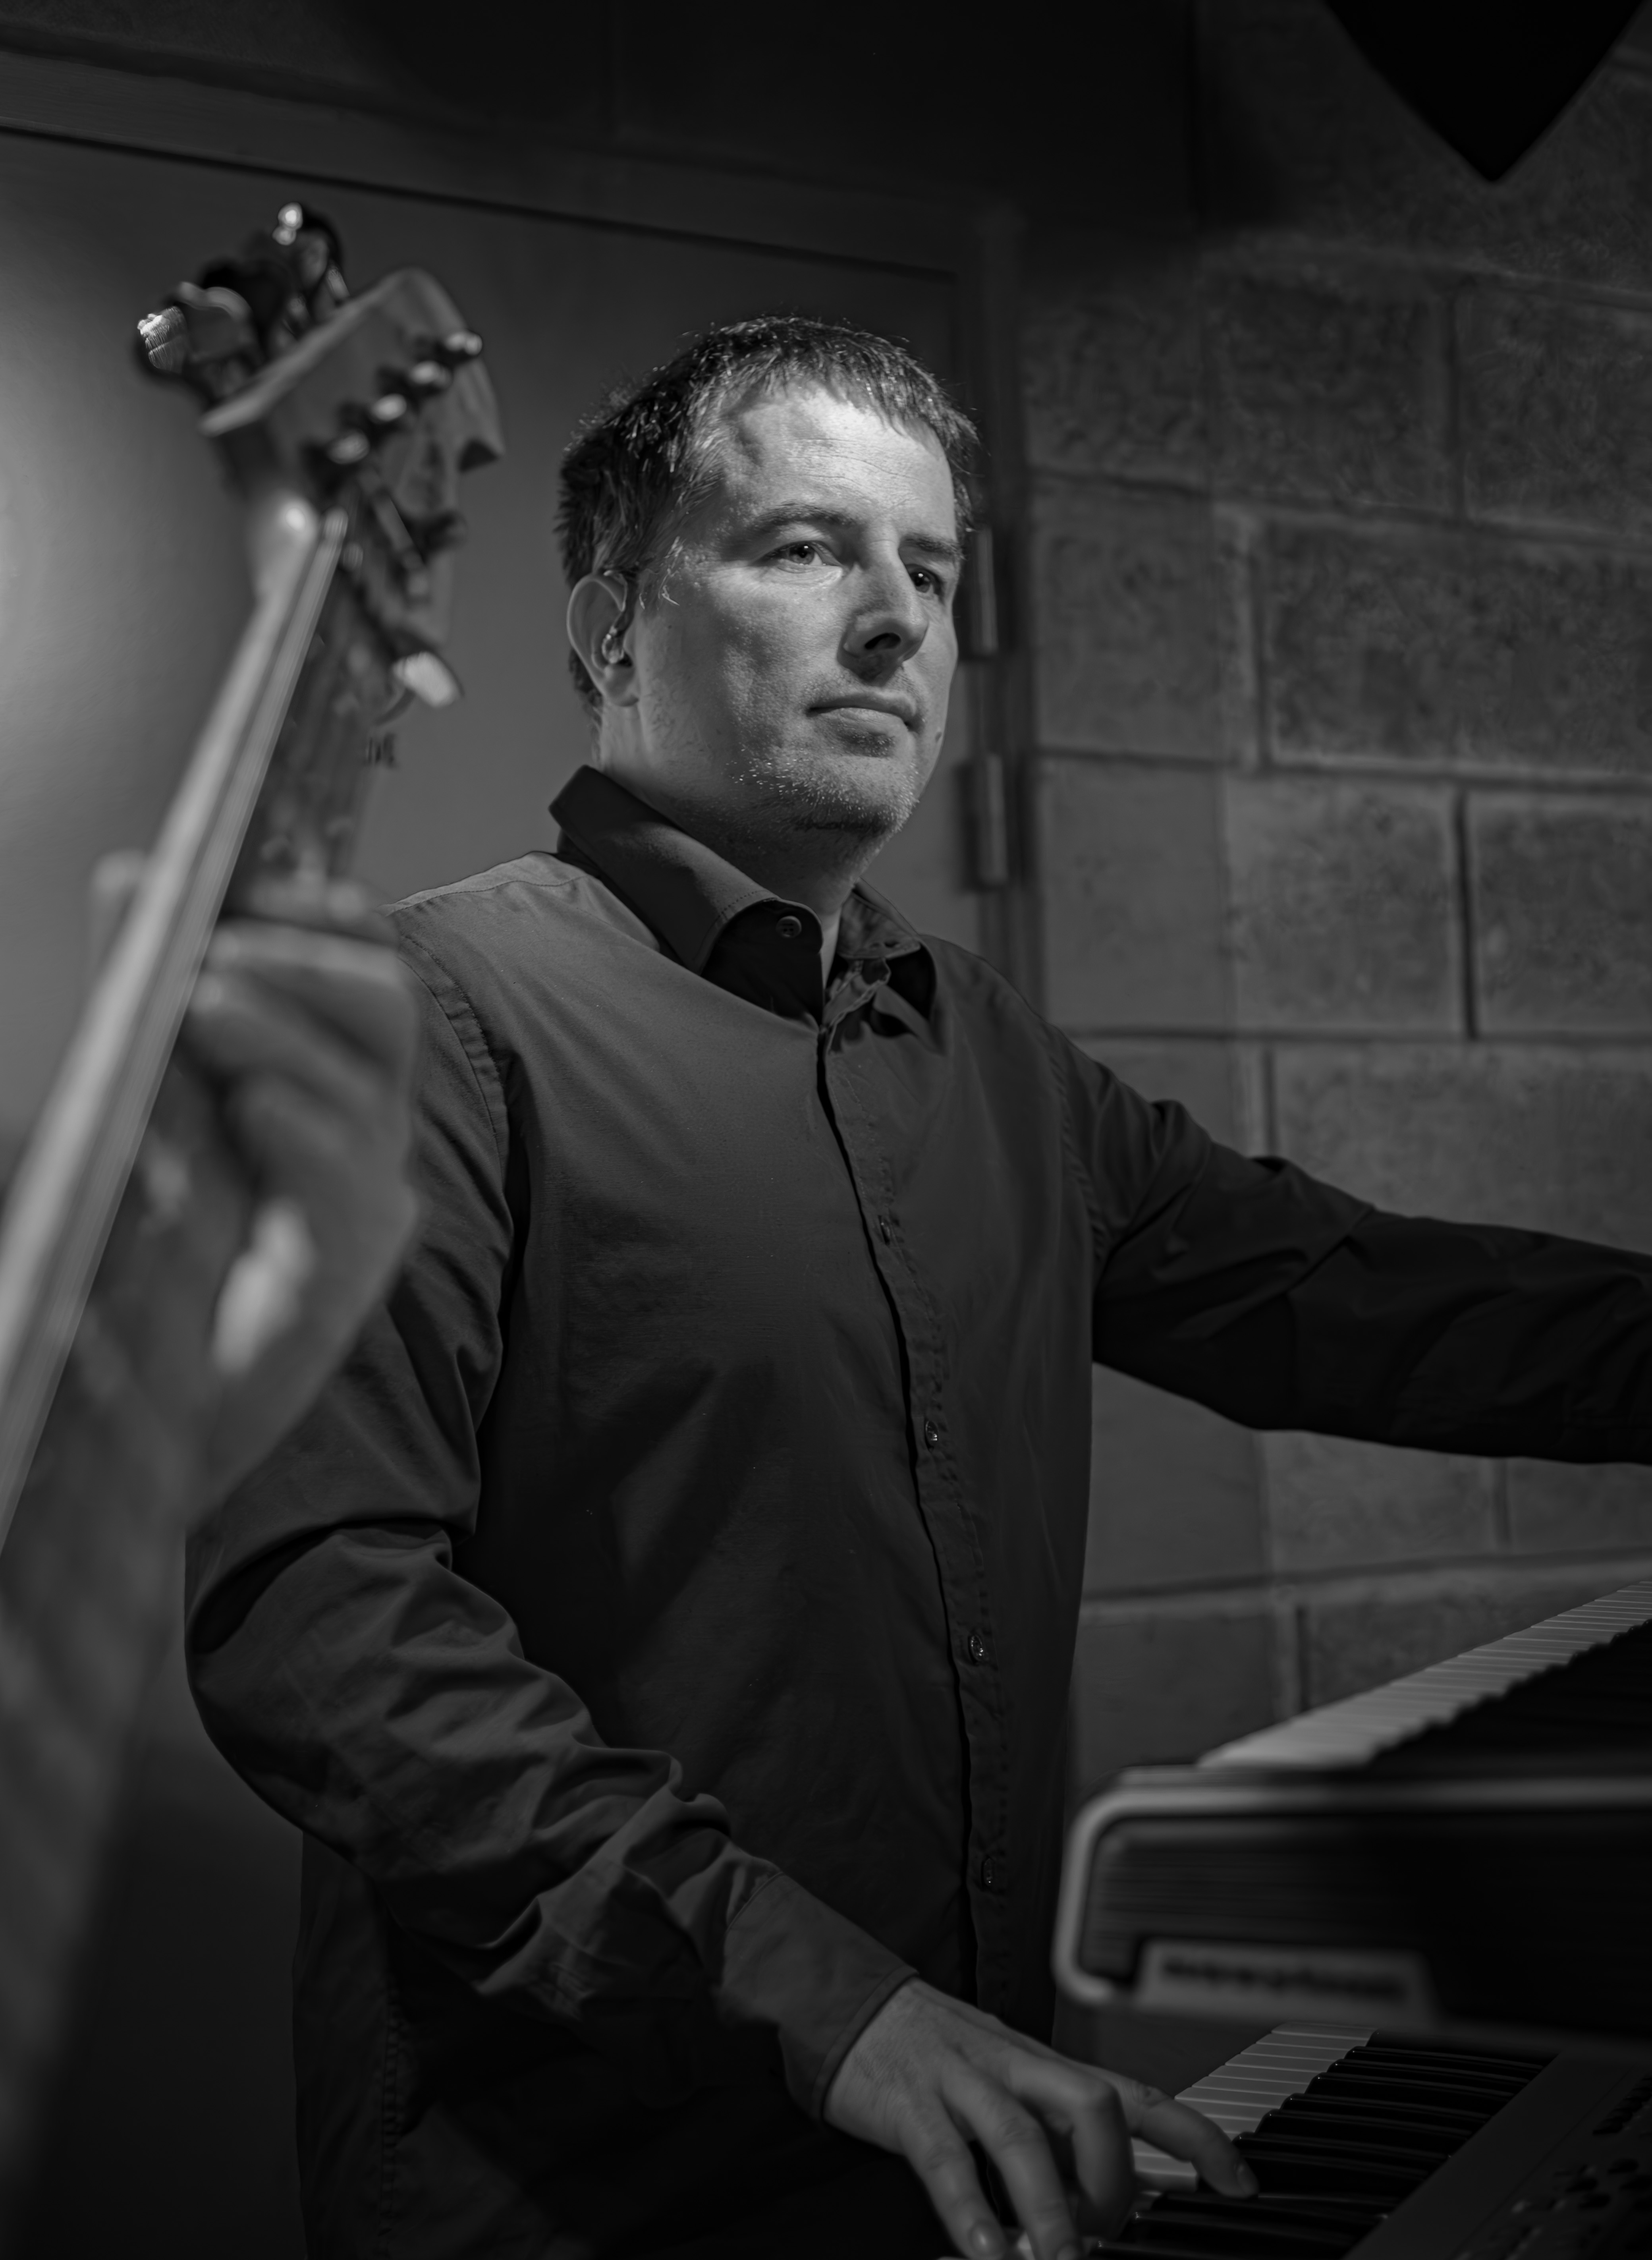
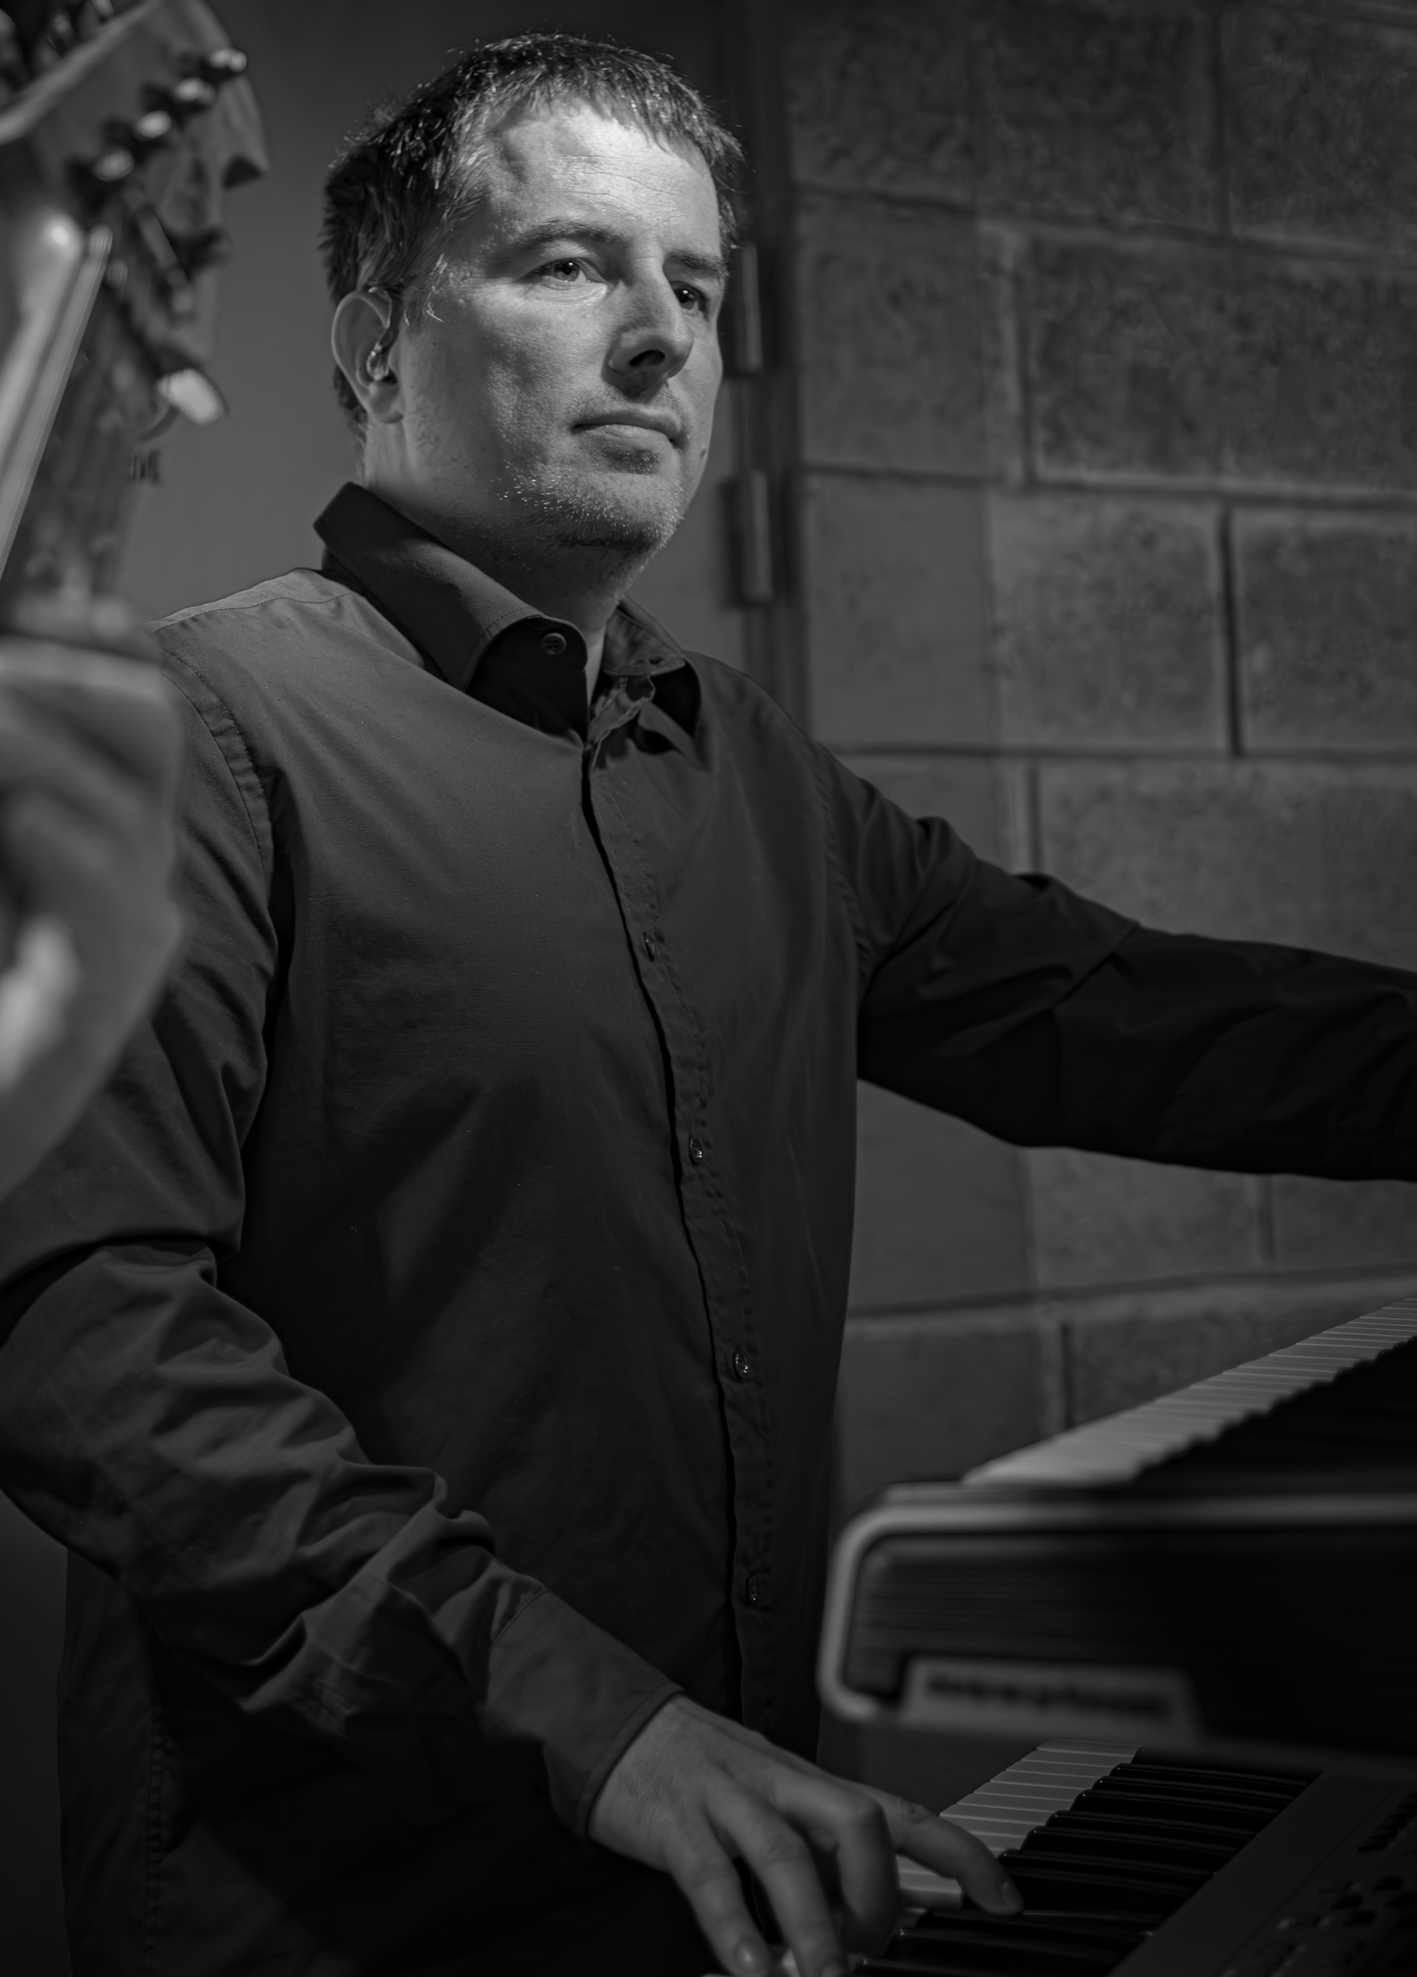
Fix group page

diff --git a/new/styles/main_styles.css b/new/styles/main_styles.css
@@ -632,12 +632,12 @@
 
 .artist
 {
-	padding-bottom: 106px;
+	padding-bottom: 64px;
 	background: #000000;
 }
 .artist_content
 {
-	padding-top: 191px;
+	padding-top: 20px;
 }
 .artist_image
 {
@@ -647,14 +647,12 @@
 }
 .artist_image img
 {
-	max-width: 100%;
+	/*max-width: 100%;*/
 	border-right: 8px solid #de4f32;
-	/*
 	width:445px;
 	height:400px;
 	object-fit: cover;
-	*/
-	/*object-position: top;*/
+	object-position: right top;
 }
 .artist_text
 {

diff --git a/new/styles/responsive.css b/new/styles/responsive.css
@@ -190,12 +190,18 @@
 	{
 		margin-top: 71px;
 	}
+
+	.artist_content
+	{
+		padding-top: 40px;
+	}
+
 	.artist_image_col
 	{
 		position: absolute;
 	    width: 100%;
 	    right: 0;
-	    top: 50px;
+	    /*top: 50px;*/
 	    text-align: right;
 	}
 	.artist_image
@@ -270,7 +276,7 @@
 	}
 	.artist_image_col
 	{
-		top: 130px;
+		top: 0px;
 	}
 	.artist_image img
 	{
